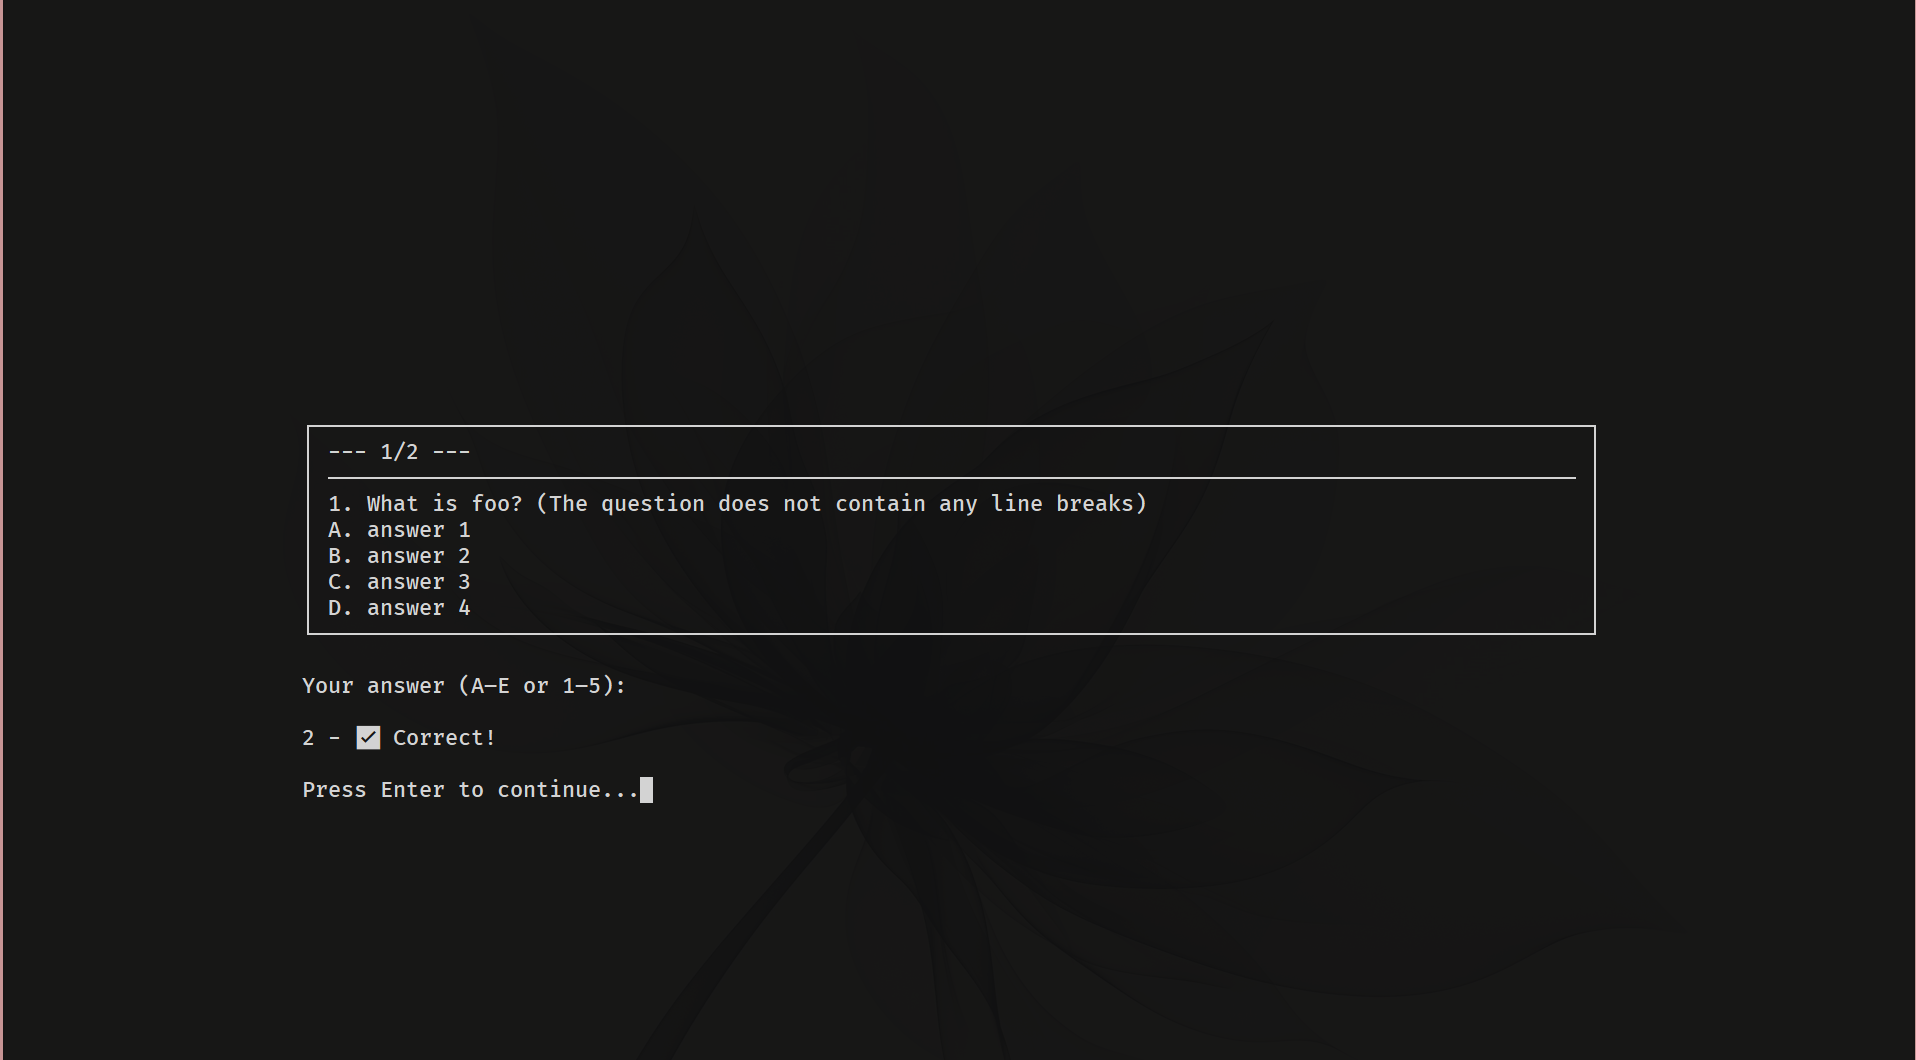
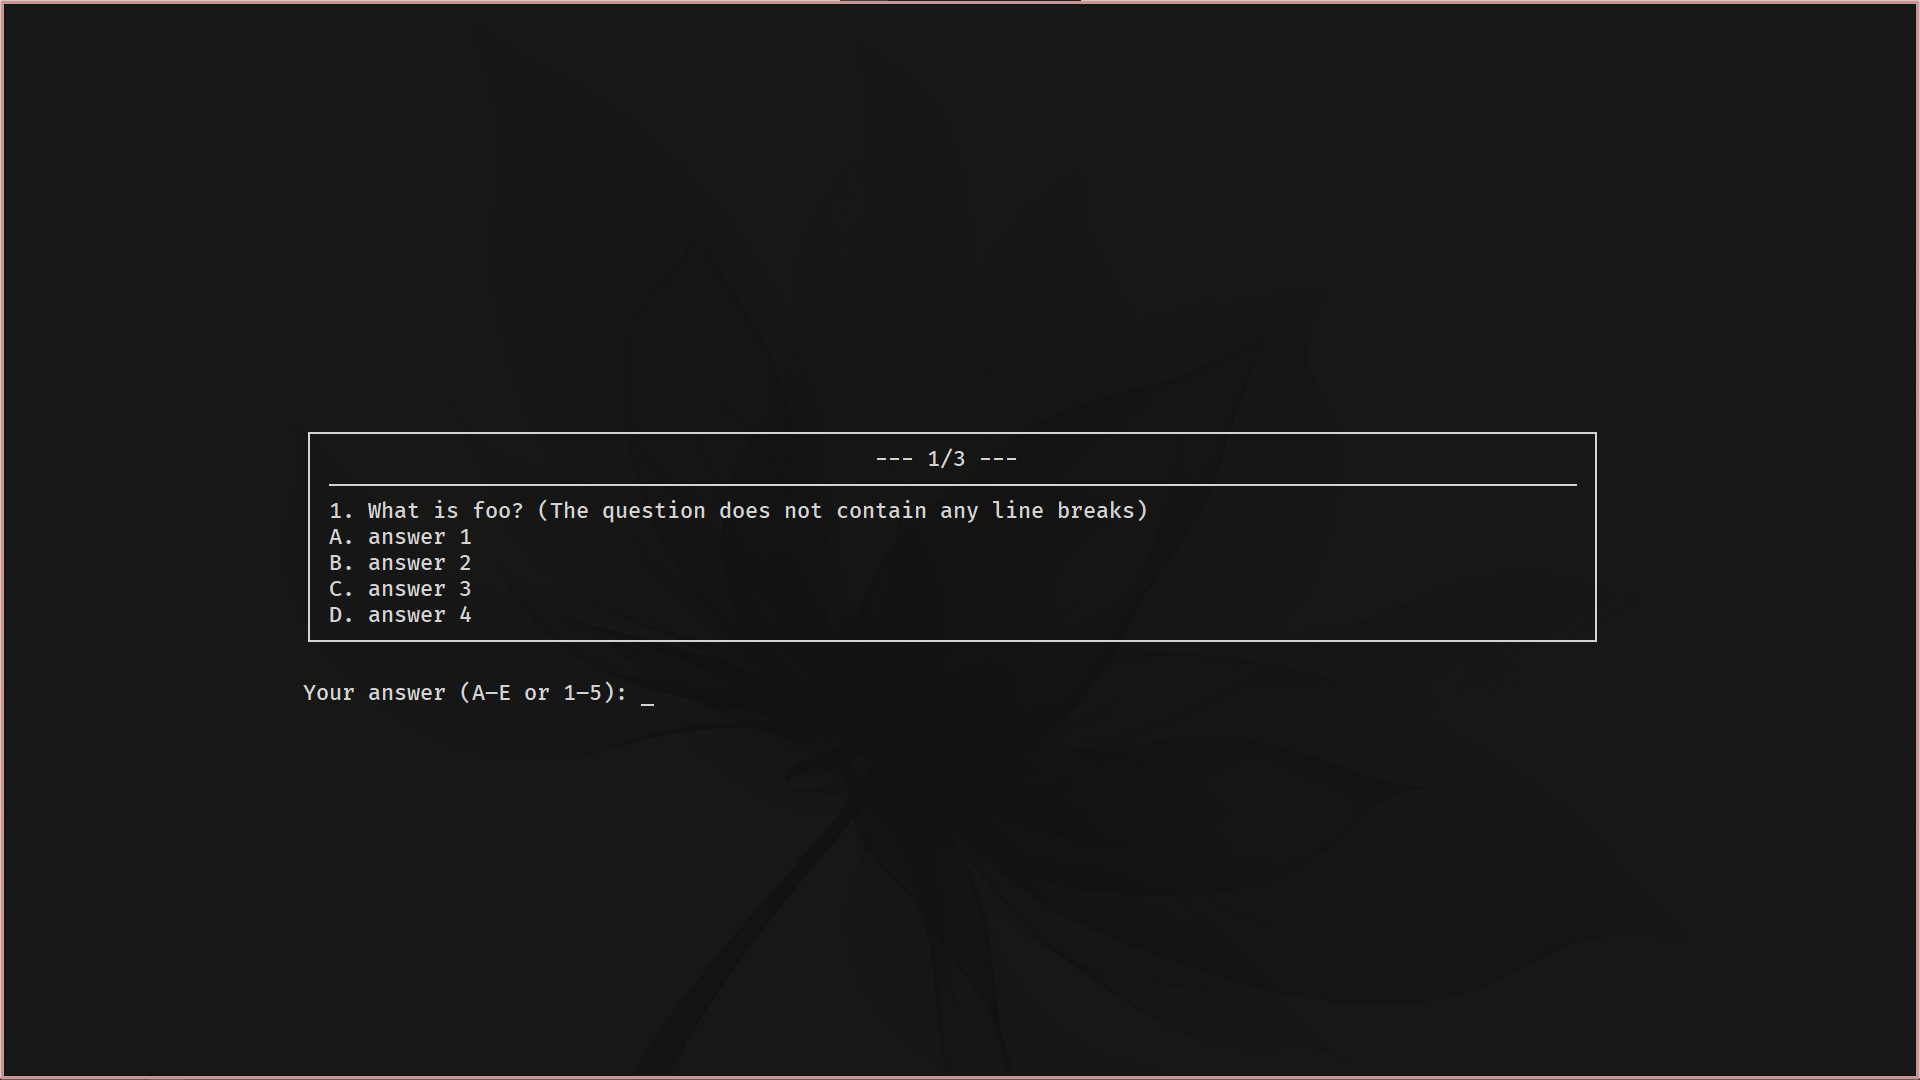
center --- present/ total ---

diff --git a/main.py b/main.py
@@ -94,7 +94,7 @@ def quiz_user(questions, is_retry=False):
     for question in questions:
         clear_screen()
 
-        lines = [f"--- {count}/{len(questions)} ---"]
+        lines = [f"--- {count}/{len(questions)} ---".center(BOX_WIDTH - 4)]
         lines.append("─" * (BOX_WIDTH - 4))
         lines.extend(textwrap.wrap(question["question"], width=BOX_WIDTH - 4))
         lines.extend(question["options"])
